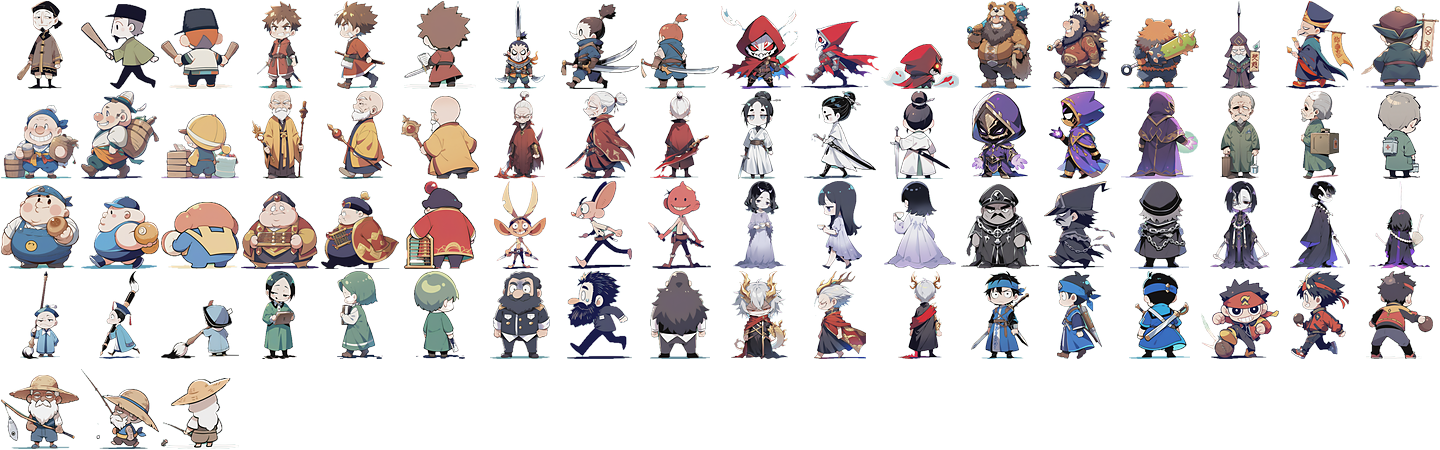
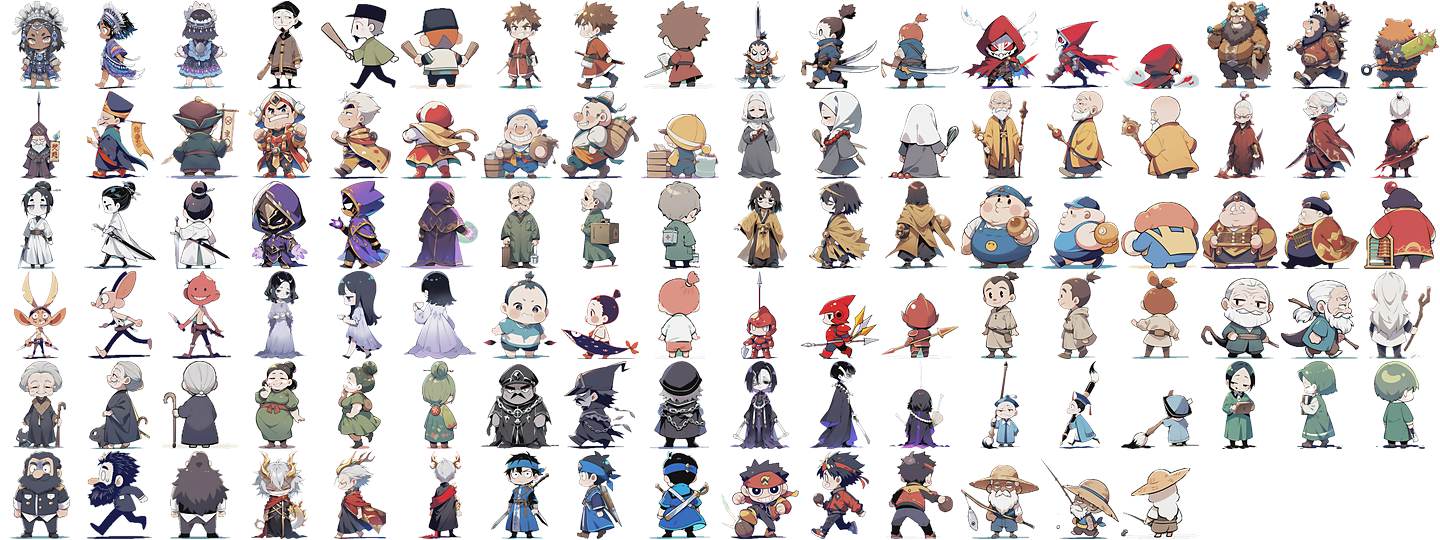
Detailed map sprites: huotianxia,mowuya,aman,jingci,tf_man,tf_woman,tf_oldman,tf_oldwoman,tf_child,tf_guard

diff --git a/js/ai_art.js b/js/ai_art.js
@@ -1,2 +1,2 @@
 // Made by tools/ai_pack.py from the AI-painted art: rects into assets/ai/. Do not edit by hand.
-export const AI = {"acolyte":{"p":[0,0]},"aman":{"p":[128,0],"s":[0,0]},"ape":{"p":[256,0]},"archer":{"p":[384,0],"s":[192,0]},"assassin":{"p":[512,0],"s":[384,0]},"baixian":{"p":[640,0],"c":[0,0]},"bamboosprite":{"p":[768,0]},"bambooviper":{"p":[896,0],"s":[576,0]},"bellfire":{"p":[1024,0]},"bellguard":{"p":[1152,0]},"bellpuppet":{"p":[1280,0]},"blackbone":{"p":[1408,0],"s":[768,0]},"blackdaoist":{"p":[1536,0]},"bloodbat":{"p":[0,128],"s":[960,0]},"bloodthug":{"p":[128,128],"s":[0,88]},"bloodwolf":{"p":[256,128],"s":[192,88]},"bronzejiangshi":{"p":[384,128],"s":[384,88]},"bronzeman":{"p":[512,128],"s":[576,88]},"cavebat":{"p":[640,128],"s":[768,88]},"centipede":{"p":[768,128],"s":[960,88]},"chengyuanzhi":{"p":[896,128]},"chutiankuo":{"p":[1024,128],"s":[0,176],"c":[240,0]},"coldpool":{"p":[1152,128],"s":[192,176]},"crow":{"p":[1280,128]},"cudgeler":{"p":[1408,128],"s":[384,176]},"daoba":{"p":[1536,128],"s":[576,176],"c":[480,0]},"daoist":{"p":[0,256],"s":[768,176]},"deadwood":{"p":[128,256],"s":[960,176]},"drowned":{"p":[256,256],"s":[0,264]},"dummy":{"p":[384,256]},"erin":{"p":[512,256]},"firehornet":{"p":[640,256]},"fox":{"p":[768,256]},"frostwolf":{"p":[896,256],"s":[192,264]},"ghosthornet":{"p":[1024,256],"s":[384,264]},"glowcap":{"p":[1152,256]},"goldbone":{"p":[1280,256]},"goldcentipede":{"p":[1408,256],"s":[576,264]},"goldmonkey":{"p":[1536,256],"s":[768,264]},"goldsnake":{"p":[0,384]},"greatbell":{"p":[128,384]},"greywolf":{"p":[256,384],"s":[960,264]},"guanyu":{"p":[384,384]},"guimian":{"p":[512,384],"s":[0,352],"c":[720,0]},"heixiong":{"p":[640,384],"c":[960,0]},"huaxiong":{"p":[768,384]},"hubanxian":{"p":[896,384],"s":[192,352],"c":[1200,0]},"huotianxia":{"p":[1024,384],"s":[384,352]},"icebat":{"p":[1152,384]},"iceboar":{"p":[1280,384]},"icejiangshi":{"p":[1408,384]},"inkscorpion":{"p":[1536,384],"s":[576,352]},"inkspirit":{"p":[0,512],"s":[768,352]},"ironboar":{"p":[128,512],"s":[960,352]},"ironcrab":{"p":[256,512]},"irondummy":{"p":[384,512]},"ironmonk":{"p":[512,512],"s":[0,440]},"jadetoad":{"p":[640,512]},"jasper":{"p":[768,512]},"jeff":{"p":[896,512]},"jiabafang":{"p":[1024,512],"s":[192,440],"c":[0,90]},"jiangshi":{"p":[1152,512]},"jiao":{"p":[1280,512]},"jiling":{"p":[1408,512]},"jingci":{"p":[1536,512]},"josh":{"p":[0,640]},"kuchan":{"p":[128,640],"s":[384,440],"c":[240,90]},"lackey":{"p":[256,640],"s":[576,440]},"lavacrab":{"p":[384,640]},"lavascorpion":{"p":[512,640]},"lavawolf":{"p":[640,640]},"lihanshan":{"p":[768,640],"s":[768,440],"c":[480,90]},"lion":{"p":[896,640]},"littlejiangshi":{"p":[1024,640],"s":[960,440]},"liuhanyan":{"p":[1152,640],"c":[720,90]},"lotusghost":{"p":[1280,640]},"lubu":{"p":[1408,640]},"masked":{"p":[1536,640],"s":[0,528],"c":[960,90]},"mojide":{"p":[0,768],"s":[192,528],"c":[1200,90]},"mountainmonkey":{"p":[128,768],"s":[384,528]},"mowuya":{"p":[256,768],"s":[576,528]},"mudspirit":{"p":[384,768]},"netherarcher":{"p":[512,768],"s":[768,528]},"netherassassin":{"p":[640,768]},"netherflame":{"p":[768,768],"s":[960,528]},"niubaobao":{"p":[896,768],"s":[0,616],"c":[0,180]},"papereffigy":{"p":[1024,768]},"pirate":{"p":[1152,768]},"qianwanli":{"p":[1280,768],"c":[240,180]},"redpaper":{"p":[1408,768]},"redsnake":{"p":[1536,768],"s":[192,616]},"rivercrab":{"p":[0,896],"s":[384,616]},"roguemonk":{"p":[128,896]},"sandscorpion":{"p":[256,896],"s":[576,616]},"shanxiao":{"p":[384,896]},"shouhou":{"p":[512,896],"s":[768,616],"c":[480,180]},"skeleton":{"p":[640,896],"s":[960,616]},"snowmonkey":{"p":[768,896]},"snowsprite":{"p":[896,896]},"stonetoad":{"p":[1024,896],"s":[0,704]},"suxiaowan":{"p":[1152,896],"s":[192,704],"c":[720,180]},"sx_archer":{"p":[1280,896]},"sx_bl_palm":{"p":[1408,896],"s":[384,704]},"sx_crossbow":{"p":[1536,896],"s":[576,704]},"sx_cy_nun":{"p":[0,1024],"s":[768,704]},"sx_daoist":{"p":[128,1024],"s":[960,704]},"sx_disciple":{"p":[256,1024],"s":[0,792]},"sx_founder":{"p":[384,1024]},"sx_grandmaster":{"p":[512,1024]},"sx_hf_club":{"p":[640,1024]},"sx_hidden":{"p":[768,1024],"s":[192,792]},"sx_hj_sword":{"p":[896,1024]},"sx_inner":{"p":[1024,1024],"s":[384,792]},"sx_lm_saber":{"p":[1152,1024],"s":[576,792]},"sx_master":{"p":[1280,1024],"s":[768,792]},"sx_phantom":{"p":[1408,1024],"s":[960,792]},"sx_physician":{"p":[1536,1024]},"sx_physician_f":{"p":[0,1152]},"sx_poison":{"p":[128,1152],"s":[0,880]},"sx_qf_monk":{"p":[256,1152],"s":[192,880]},"sx_qin":{"p":[384,1152]},"sx_qin_f":{"p":[512,1152],"s":[384,880]},"sx_saber":{"p":[640,1152],"s":[576,880]},"sx_scholar":{"p":[768,1152]},"sx_scout":{"p":[896,1152],"s":[768,880]},"sx_smith":{"p":[1024,1152],"s":[960,880]},"sx_spear":{"p":[1152,1152],"s":[0,968]},"sx_starbow":{"p":[1280,1152],"s":[192,968]},"sx_strategist":{"p":[1408,1152],"s":[384,968]},"sx_sword":{"p":[1536,1152],"s":[576,968]},"sx_swordform":{"p":[0,1280]},"sx_teller":{"p":[128,1280]},"sx_thief":{"p":[256,1280],"s":[768,968]},"sx_xd_blood":{"p":[384,1280],"s":[960,968]},"sx_ym_assassin":{"p":[512,1280],"s":[0,1056]},"sx_yy_tiger":{"p":[640,1280],"s":[192,1056]},"sx_zf_chain":{"p":[768,1280],"s":[384,1056]},"tf_bandit":{"p":[896,1280],"s":[576,1056]},"tf_beggar":{"p":[1024,1280],"s":[768,1056]},"tf_blacksmith":{"p":[1152,1280],"s":[960,1056]},"tf_boatman":{"p":[1280,1280],"s":[0,1144]},"tf_child":{"p":[1408,1280],"s":[192,1144]},"tf_cultist":{"p":[1536,1280],"s":[384,1144]},"tf_dancer":{"p":[0,1408],"s":[576,1144]},"tf_fisherman":{"p":[128,1408],"s":[768,1144]},"tf_guard":{"p":[256,1408],"s":[960,1144]},"tf_innkeeper":{"p":[384,1408],"s":[0,1232]},"tf_man":{"p":[512,1408]},"tf_merchant":{"p":[640,1408]},"tf_monk":{"p":[768,1408],"s":[192,1232]},"tf_nun":{"p":[896,1408],"s":[384,1232]},"tf_oldman":{"p":[1024,1408],"s":[576,1232]},"tf_oldwoman":{"p":[1152,1408],"s":[768,1232]},"tf_scholar":{"p":[1280,1408],"s":[960,1232]},"tf_woman":{"p":[1408,1408],"s":[0,1320]},"thundersprite":{"p":[1536,1408],"s":[192,1320]},"tiewusi":{"p":[0,1536],"s":[384,1320],"c":[960,180]},"tiger":{"p":[128,1536]},"tigerhornet":{"p":[256,1536]},"toad":{"p":[384,1536]},"toadstool":{"p":[512,1536],"s":[576,1320]},"treesprite":{"p":[640,1536],"s":[768,1320]},"tuqianqiu":{"p":[768,1536],"s":[960,1320],"c":[1200,180]},"vajraguardian":{"p":[896,1536],"s":[0,1408]},"wenchou":{"p":[1024,1536]},"wenduizhang":{"p":[1152,1536],"c":[0,270]},"wenruyu":{"p":[1280,1536],"s":[192,1408],"c":[240,270]},"wildboar":{"p":[1408,1536],"s":[384,1408]},"windsprite":{"p":[1536,1536],"s":[576,1408]},"wisp":{"p":[0,1664],"s":[768,1408]},"wudadan":{"p":[128,1664],"c":[480,270]},"xiahoudun":{"p":[256,1664]},"xiaolian":{"p":[384,1664]},"xiaotian":{"p":[512,1664],"s":[960,1408],"c":[720,270]},"xiaowuying":{"p":[640,1664],"s":[0,1496]},"yanliang":{"p":[768,1664]},"yichangfeng":{"p":[896,1664]},"yirui":{"p":[1024,1664],"s":[192,1496],"c":[960,270]},"yishuo":{"p":[1152,1664],"s":[384,1496],"c":[1200,270]},"yuweng":{"p":[1280,1664],"c":[0,360]},"zhangbao":{"p":[1408,1664]},"zhangliao":{"p":[1536,1664]}};
+export const AI = {"acolyte":{"p":[0,0]},"aman":{"p":[128,0],"s":[0,0],"c":[0,0]},"ape":{"p":[256,0]},"archer":{"p":[384,0],"s":[192,0]},"assassin":{"p":[512,0],"s":[384,0]},"baixian":{"p":[640,0],"c":[240,0]},"bamboosprite":{"p":[768,0]},"bambooviper":{"p":[896,0],"s":[576,0]},"bellfire":{"p":[1024,0]},"bellguard":{"p":[1152,0]},"bellpuppet":{"p":[1280,0]},"blackbone":{"p":[1408,0],"s":[768,0]},"blackdaoist":{"p":[1536,0]},"bloodbat":{"p":[0,128],"s":[960,0]},"bloodthug":{"p":[128,128],"s":[0,88]},"bloodwolf":{"p":[256,128],"s":[192,88]},"bronzejiangshi":{"p":[384,128],"s":[384,88]},"bronzeman":{"p":[512,128],"s":[576,88]},"cavebat":{"p":[640,128],"s":[768,88]},"centipede":{"p":[768,128],"s":[960,88]},"chengyuanzhi":{"p":[896,128]},"chutiankuo":{"p":[1024,128],"s":[0,176],"c":[480,0]},"coldpool":{"p":[1152,128],"s":[192,176]},"crow":{"p":[1280,128]},"cudgeler":{"p":[1408,128],"s":[384,176]},"daoba":{"p":[1536,128],"s":[576,176],"c":[720,0]},"daoist":{"p":[0,256],"s":[768,176]},"deadwood":{"p":[128,256],"s":[960,176]},"drowned":{"p":[256,256],"s":[0,264]},"dummy":{"p":[384,256]},"erin":{"p":[512,256]},"firehornet":{"p":[640,256]},"fox":{"p":[768,256]},"frostwolf":{"p":[896,256],"s":[192,264]},"ghosthornet":{"p":[1024,256],"s":[384,264]},"glowcap":{"p":[1152,256]},"goldbone":{"p":[1280,256]},"goldcentipede":{"p":[1408,256],"s":[576,264]},"goldmonkey":{"p":[1536,256],"s":[768,264]},"goldsnake":{"p":[0,384]},"greatbell":{"p":[128,384]},"greywolf":{"p":[256,384],"s":[960,264]},"guanyu":{"p":[384,384]},"guimian":{"p":[512,384],"s":[0,352],"c":[960,0]},"heixiong":{"p":[640,384],"c":[1200,0]},"huaxiong":{"p":[768,384]},"hubanxian":{"p":[896,384],"s":[192,352],"c":[0,90]},"huotianxia":{"p":[1024,384],"s":[384,352],"c":[240,90]},"icebat":{"p":[1152,384]},"iceboar":{"p":[1280,384]},"icejiangshi":{"p":[1408,384]},"inkscorpion":{"p":[1536,384],"s":[576,352]},"inkspirit":{"p":[0,512],"s":[768,352]},"ironboar":{"p":[128,512],"s":[960,352]},"ironcrab":{"p":[256,512]},"irondummy":{"p":[384,512]},"ironmonk":{"p":[512,512],"s":[0,440]},"jadetoad":{"p":[640,512]},"jasper":{"p":[768,512]},"jeff":{"p":[896,512]},"jiabafang":{"p":[1024,512],"s":[192,440],"c":[480,90]},"jiangshi":{"p":[1152,512]},"jiao":{"p":[1280,512]},"jiling":{"p":[1408,512]},"jingci":{"p":[1536,512],"c":[720,90]},"josh":{"p":[0,640]},"kuchan":{"p":[128,640],"s":[384,440],"c":[960,90]},"lackey":{"p":[256,640],"s":[576,440]},"lavacrab":{"p":[384,640]},"lavascorpion":{"p":[512,640]},"lavawolf":{"p":[640,640]},"lihanshan":{"p":[768,640],"s":[768,440],"c":[1200,90]},"lion":{"p":[896,640]},"littlejiangshi":{"p":[1024,640],"s":[960,440]},"liuhanyan":{"p":[1152,640],"c":[0,180]},"lotusghost":{"p":[1280,640]},"lubu":{"p":[1408,640]},"masked":{"p":[1536,640],"s":[0,528],"c":[240,180]},"mojide":{"p":[0,768],"s":[192,528],"c":[480,180]},"mountainmonkey":{"p":[128,768],"s":[384,528]},"mowuya":{"p":[256,768],"s":[576,528],"c":[720,180]},"mudspirit":{"p":[384,768]},"netherarcher":{"p":[512,768],"s":[768,528]},"netherassassin":{"p":[640,768]},"netherflame":{"p":[768,768],"s":[960,528]},"niubaobao":{"p":[896,768],"s":[0,616],"c":[960,180]},"papereffigy":{"p":[1024,768]},"pirate":{"p":[1152,768]},"qianwanli":{"p":[1280,768],"c":[1200,180]},"redpaper":{"p":[1408,768]},"redsnake":{"p":[1536,768],"s":[192,616]},"rivercrab":{"p":[0,896],"s":[384,616]},"roguemonk":{"p":[128,896]},"sandscorpion":{"p":[256,896],"s":[576,616]},"shanxiao":{"p":[384,896]},"shouhou":{"p":[512,896],"s":[768,616],"c":[0,270]},"skeleton":{"p":[640,896],"s":[960,616]},"snowmonkey":{"p":[768,896]},"snowsprite":{"p":[896,896]},"stonetoad":{"p":[1024,896],"s":[0,704]},"suxiaowan":{"p":[1152,896],"s":[192,704],"c":[240,270]},"sx_archer":{"p":[1280,896]},"sx_bl_palm":{"p":[1408,896],"s":[384,704]},"sx_crossbow":{"p":[1536,896],"s":[576,704]},"sx_cy_nun":{"p":[0,1024],"s":[768,704]},"sx_daoist":{"p":[128,1024],"s":[960,704]},"sx_disciple":{"p":[256,1024],"s":[0,792]},"sx_founder":{"p":[384,1024]},"sx_grandmaster":{"p":[512,1024]},"sx_hf_club":{"p":[640,1024]},"sx_hidden":{"p":[768,1024],"s":[192,792]},"sx_hj_sword":{"p":[896,1024]},"sx_inner":{"p":[1024,1024],"s":[384,792]},"sx_lm_saber":{"p":[1152,1024],"s":[576,792]},"sx_master":{"p":[1280,1024],"s":[768,792]},"sx_phantom":{"p":[1408,1024],"s":[960,792]},"sx_physician":{"p":[1536,1024]},"sx_physician_f":{"p":[0,1152]},"sx_poison":{"p":[128,1152],"s":[0,880]},"sx_qf_monk":{"p":[256,1152],"s":[192,880]},"sx_qin":{"p":[384,1152]},"sx_qin_f":{"p":[512,1152],"s":[384,880]},"sx_saber":{"p":[640,1152],"s":[576,880]},"sx_scholar":{"p":[768,1152]},"sx_scout":{"p":[896,1152],"s":[768,880]},"sx_smith":{"p":[1024,1152],"s":[960,880]},"sx_spear":{"p":[1152,1152],"s":[0,968]},"sx_starbow":{"p":[1280,1152],"s":[192,968]},"sx_strategist":{"p":[1408,1152],"s":[384,968]},"sx_sword":{"p":[1536,1152],"s":[576,968]},"sx_swordform":{"p":[0,1280]},"sx_teller":{"p":[128,1280]},"sx_thief":{"p":[256,1280],"s":[768,968]},"sx_xd_blood":{"p":[384,1280],"s":[960,968]},"sx_ym_assassin":{"p":[512,1280],"s":[0,1056]},"sx_yy_tiger":{"p":[640,1280],"s":[192,1056]},"sx_zf_chain":{"p":[768,1280],"s":[384,1056]},"tf_bandit":{"p":[896,1280],"s":[576,1056]},"tf_beggar":{"p":[1024,1280],"s":[768,1056]},"tf_blacksmith":{"p":[1152,1280],"s":[960,1056]},"tf_boatman":{"p":[1280,1280],"s":[0,1144]},"tf_child":{"p":[1408,1280],"s":[192,1144],"c":[480,270]},"tf_cultist":{"p":[1536,1280],"s":[384,1144]},"tf_dancer":{"p":[0,1408],"s":[576,1144]},"tf_fisherman":{"p":[128,1408],"s":[768,1144]},"tf_guard":{"p":[256,1408],"s":[960,1144],"c":[720,270]},"tf_innkeeper":{"p":[384,1408],"s":[0,1232]},"tf_man":{"p":[512,1408],"c":[960,270]},"tf_merchant":{"p":[640,1408]},"tf_monk":{"p":[768,1408],"s":[192,1232]},"tf_nun":{"p":[896,1408],"s":[384,1232]},"tf_oldman":{"p":[1024,1408],"s":[576,1232],"c":[1200,270]},"tf_oldwoman":{"p":[1152,1408],"s":[768,1232],"c":[0,360]},"tf_scholar":{"p":[1280,1408],"s":[960,1232]},"tf_woman":{"p":[1408,1408],"s":[0,1320],"c":[240,360]},"thundersprite":{"p":[1536,1408],"s":[192,1320]},"tiewusi":{"p":[0,1536],"s":[384,1320],"c":[480,360]},"tiger":{"p":[128,1536]},"tigerhornet":{"p":[256,1536]},"toad":{"p":[384,1536]},"toadstool":{"p":[512,1536],"s":[576,1320]},"treesprite":{"p":[640,1536],"s":[768,1320]},"tuqianqiu":{"p":[768,1536],"s":[960,1320],"c":[720,360]},"vajraguardian":{"p":[896,1536],"s":[0,1408]},"wenchou":{"p":[1024,1536]},"wenduizhang":{"p":[1152,1536],"c":[960,360]},"wenruyu":{"p":[1280,1536],"s":[192,1408],"c":[1200,360]},"wildboar":{"p":[1408,1536],"s":[384,1408]},"windsprite":{"p":[1536,1536],"s":[576,1408]},"wisp":{"p":[0,1664],"s":[768,1408]},"wudadan":{"p":[128,1664],"c":[0,450]},"xiahoudun":{"p":[256,1664]},"xiaolian":{"p":[384,1664]},"xiaotian":{"p":[512,1664],"s":[960,1408],"c":[240,450]},"xiaowuying":{"p":[640,1664],"s":[0,1496]},"yanliang":{"p":[768,1664]},"yichangfeng":{"p":[896,1664]},"yirui":{"p":[1024,1664],"s":[192,1496],"c":[480,450]},"yishuo":{"p":[1152,1664],"s":[384,1496],"c":[720,450]},"yuweng":{"p":[1280,1664],"c":[960,450]},"zhangbao":{"p":[1408,1664]},"zhangliao":{"p":[1536,1664]}};
